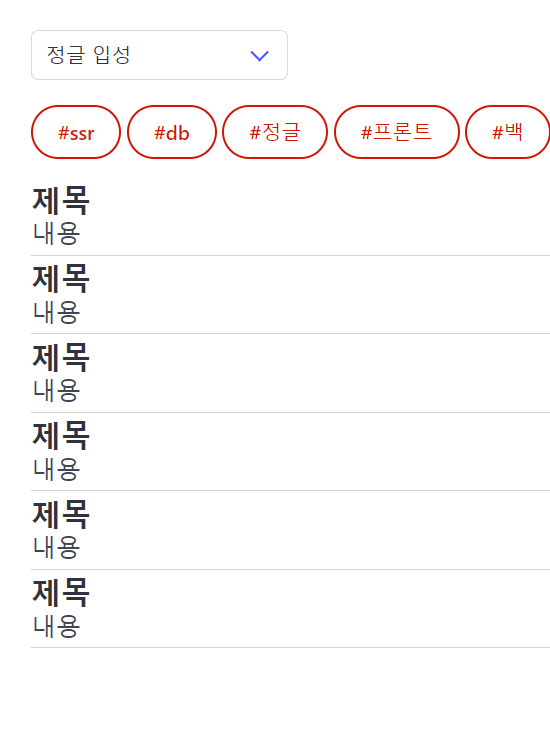
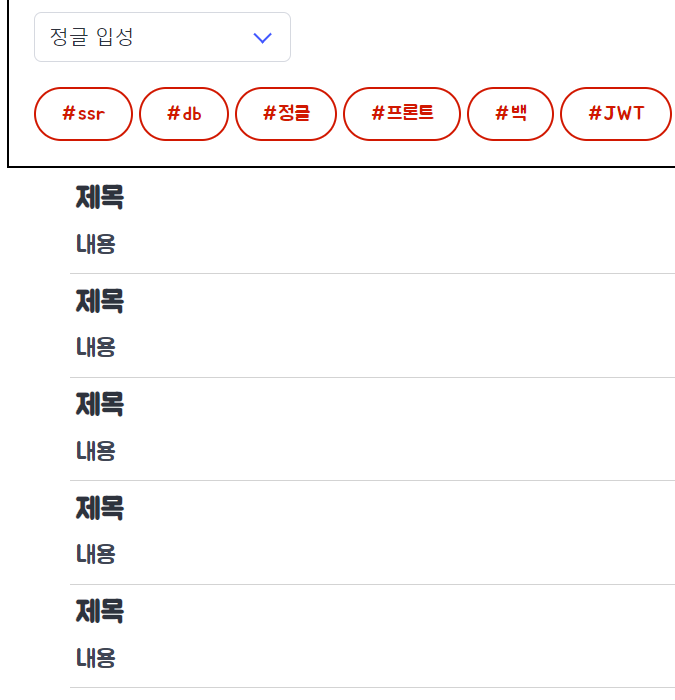
07/04/12:28

diff --git a/static/lobby.html b/static/lobby.html
@@ -9,10 +9,17 @@
       href="https://cdn.jsdelivr.net/npm/bulma@1.0.1/css/bulma.min.css"
     />
     <link rel="stylesheet" href="./lobby.css" />
+    <link rel="preconnect" href="https://fonts.googleapis.com" />
+    <link rel="preconnect" href="https://fonts.gstatic.com" crossorigin />
+    <link
+      href="https://fonts.googleapis.com/css2?family=Jua&display=swap"
+      rel="stylesheet"
+    />
   </head>
   <body>
     <form class="box">
       <div class="box_body">
+        <div class="header_fixed">
         <div class="header">
           <div class="header_left">
             <div class="select is-normal">
@@ -48,6 +55,7 @@
           <button class="button is-danger is-rounded">#서버</button>
           <button class="button is-danger is-rounded">#tailwind</button>
         </div>
+      </div>
         <div class="main">
           <div class="main_left">
             <div class="post">
@@ -74,14 +82,42 @@
               <a href="./post_in.html"><h1 class="title left_title is-4">제목</h1></a>
               <a href="./post_in.html"><h2 class="subtitle left_subtitle">내용</h2></a>
             </div>
-          </div>
-          <div class="main_right">
-            <div class="weather"></div>
-            <h1 class="title is-4">내용</h1>
+            <div class="post">
+              <a href="./post_in.html"><h1 class="title left_title is-4">제목</h1></a>
+              <a href="./post_in.html"><h2 class="subtitle left_subtitle">내용</h2></a>
+            </div>
+            <div class="post">
+              <a href="./post_in.html"><h1 class="title left_title is-4">제목</h1></a>
+              <a href="./post_in.html"><h2 class="subtitle left_subtitle">내용</h2></a>
+            </div>
+            <div class="post">
+              <a href="./post_in.html"><h1 class="title left_title is-4">제목</h1></a>
+              <a href="./post_in.html"><h2 class="subtitle left_subtitle">내용</h2></a>
+            </div>
+            <div class="post">
+              <a href="./post_in.html"><h1 class="title left_title is-4">제목</h1></a>
+              <a href="./post_in.html"><h2 class="subtitle left_subtitle">내용</h2></a>
+            </div>
+            <div class="post">
+              <a href="./post_in.html"><h1 class="title left_title is-4">제목</h1></a>
+              <a href="./post_in.html"><h2 class="subtitle left_subtitle">내용</h2></a>
+            </div>
+            <div class="post">
+              <a href="./post_in.html"><h1 class="title left_title is-4">제목</h1></a>
+              <a href="./post_in.html"><h2 class="subtitle left_subtitle">내용</h2></a>
+            </div>
+            <div class="post">
+              <a href="./post_in.html"><h1 class="title left_title is-4">제목</h1></a>
+              <a href="./post_in.html"><h2 class="subtitle left_subtitle">내용</h2></a>
+            </div>
+            <div class="post">
+              <a href="./post_in.html"><h1 class="title left_title is-4">제목</h1></a>
+              <a href="./post_in.html"><h2 class="subtitle left_subtitle">내용</h2></a>
+            </div>
           </div>
         </div>
         <div class="tail">
-          <button class="button post">
+          <button class="button posted">
             <a class="post_made" href="./post_made.html">작성하기</a>
           </button>
         </div>

diff --git a/static/lobby.css b/static/lobby.css
@@ -1,12 +1,11 @@
-@media screen and (max-width: 600px) {
-  
-}
-
 body {
   display: flex;
   flex-direction: row;
   justify-content: center;
   align-items: center;
+  font-family: "Jua", sans-serif;
+  font-weight: 400;
+  font-style: normal;
 }
 
 .box {
@@ -26,6 +25,16 @@ body {
   flex-direction: column;
 }
 
+.header_fixed {
+  position: sticky;
+  width: 100%;
+  top: 0px;
+  z-index: 10;
+  background: white;
+  border: 2px solid black;
+  padding: 20px;
+}
+
 .header {
   display: flex;
   flex-direction: row;
@@ -35,7 +44,6 @@ body {
 
 .hot_topic {
   width: 100%;
-  margin-bottom: 20px;
 }
 
 .is-danger {
@@ -52,22 +60,25 @@ body {
 
 .main {
   display: flex;
-  flex-direction: row;
-  height: 400px;
+  flex-direction: column;
+  height: auto;
+  width:1000px;
+  padding-left: 50px;
+  padding-top: 620px;
 }
 
 .main_left {
   display: flex;
   flex-direction: column;
-  width: 700px;
 }
 
 .left_title, .left_subtitle {
-  width: 700px;
+  width: 951px;
   text-overflow: ellipsis;
   white-space: nowrap;
   overflow: hidden;
   text-overflow: ellipsis;
+  padding: 5px;
 }
 
 .main_right {
@@ -85,23 +96,23 @@ body {
   border-radius: 15px;
 }
 
-.post {
+.post { 
   border-bottom: solid 1px lightgray;
   margin-bottom: 5px;
   padding-bottom: 5px;
 }
 
-.tail {
-  display: flex;
-  flex-direction: row;
-  justify-content: space-between;
-  height: 40px;
-  margin-top: 20px;
+.posted {
+  border: 2px solid black;
+  box-shadow: none;
 }
 
-.left_tail {
-  position: relative;
-  left: 490px;
+.tail {
+  position: fixed;
+  top: 600px;
+  left: 700px;
+  height: 40px;
+  margin-top: 20px;
 }
 
 .post_made, .my_page, .logout {

diff --git a/static/post_in.html b/static/post_in.html
@@ -13,12 +13,18 @@
       crossorigin="anonymous"
     ></script>
     <link rel="stylesheet" href="./post_in.css" />
+    <link rel="preconnect" href="https://fonts.googleapis.com" />
+    <link rel="preconnect" href="https://fonts.gstatic.com" crossorigin />
+    <link
+      href="https://fonts.googleapis.com/css2?family=Jua&display=swap"
+      rel="stylesheet"
+    />
   </head>
   <body>
     <form class="box">
       <div class="main">
         <div class="header">
-          <img class="pin" src="./img/pin.png">
+          <img class="pin" src="./img/pin.png" />
           <button class="button">
             <a class="prev" href="./lobby.html">이전</a>
           </button>

diff --git a/static/post_in.css b/static/post_in.css
@@ -3,6 +3,9 @@ body {
   flex-direction: row;
   justify-content: center;
   align-items: center;
+  font-family: "Jua", sans-serif;
+  font-weight: 400;
+  font-style: normal;
 }
 
 .box {
@@ -12,11 +15,12 @@ body {
   align-items: center;
   /* border: 2px solid brown; */
   box-shadow: none;
-  background: lightgreen
+  background: lightgreen;
 }
 
 .main {
   padding: 20px;
+  border: 2px solid black;
   border-radius: 8px;
   background: white;
 }
@@ -77,10 +81,10 @@ body {
 
 .a_sub {
   position: relative;
-  left : 30px;
+  left: 30px;
   width: 470px;
   border-radius: 8px;
-  background: #e5e5e5
+  background: #e5e5e5;
 }
 
 .a_option {

diff --git a/static/membership.html b/static/membership.html
@@ -9,6 +9,12 @@
       href="https://cdn.jsdelivr.net/npm/bulma@1.0.1/css/bulma.min.css"
     />
     <link rel="stylesheet" href="./membership.css" />
+    <link rel="preconnect" href="https://fonts.googleapis.com" />
+    <link rel="preconnect" href="https://fonts.gstatic.com" crossorigin />
+    <link
+      href="https://fonts.googleapis.com/css2?family=Jua&display=swap"
+      rel="stylesheet"
+    />
   </head>
   <body>
     <form class="box">

diff --git a/static/post_made.html b/static/post_made.html
@@ -9,6 +9,12 @@
       href="https://cdn.jsdelivr.net/npm/bulma@1.0.1/css/bulma.min.css"
     />
     <link rel="stylesheet" href="./post_made.css" />
+    <link rel="preconnect" href="https://fonts.googleapis.com" />
+    <link rel="preconnect" href="https://fonts.gstatic.com" crossorigin />
+    <link
+      href="https://fonts.googleapis.com/css2?family=Jua&display=swap"
+      rel="stylesheet"
+    />
   </head>
   <body>
     <form class="box">

diff --git a/static/my_page.html b/static/my_page.html
@@ -9,6 +9,12 @@
       href="https://cdn.jsdelivr.net/npm/bulma@1.0.1/css/bulma.min.css"
     />
     <link rel="stylesheet" href="./my_page.css" />
+    <link rel="preconnect" href="https://fonts.googleapis.com" />
+    <link rel="preconnect" href="https://fonts.gstatic.com" crossorigin />
+    <link
+      href="https://fonts.googleapis.com/css2?family=Jua&display=swap"
+      rel="stylesheet"
+    />
   </head>
   <body>
     <form class="box">

diff --git a/static/main.html b/static/main.html
@@ -9,6 +9,12 @@
       href="https://cdn.jsdelivr.net/npm/bulma@1.0.1/css/bulma.min.css"
     />
     <link rel="stylesheet" href="./main.css" />
+    <link rel="preconnect" href="https://fonts.googleapis.com" />
+    <link rel="preconnect" href="https://fonts.gstatic.com" crossorigin />
+    <link
+      href="https://fonts.googleapis.com/css2?family=Jua&display=swap"
+      rel="stylesheet"
+    />
   </head>
   <body>
     <form class="box">

diff --git a/static/main.css b/static/main.css
@@ -3,6 +3,9 @@ body {
   flex-direction: row;
   justify-content: center;
   align-items: center;
+  font-family: "Jua", sans-serif;
+  font-weight: 400;
+  font-style: normal;
 }
 
 .field {
@@ -53,7 +56,7 @@ body {
   background-image: url(./img/lobby.png);
   background-size: cover;
   background-repeat: no-repeat;
-  background-position: -5px 0px;
+  background-position: -15px 0px;
   width: 380px;
   height: 480px;
 }

diff --git a/static/membership.css b/static/membership.css
@@ -3,6 +3,9 @@ body {
   flex-direction: row;
   justify-content: center;
   align-items: center;
+  font-family: "Jua", sans-serif;
+  font-weight: 400;
+  font-style: normal;
 }
 
 .box {

diff --git a/static/my_page.css b/static/my_page.css
@@ -3,6 +3,9 @@ body {
   flex-direction: row;
   justify-content: center;
   align-items: center;
+  font-family: "Jua", sans-serif;
+  font-weight: 400;
+  font-style: normal;
 }
 
 .box {

diff --git a/static/post_made.css b/static/post_made.css
@@ -3,6 +3,9 @@ body {
   flex-direction: row;
   justify-content: center;
   align-items: center;
+  font-family: "Jua", sans-serif;
+  font-weight: 400;
+  font-style: normal;
 }
 
 .box {
